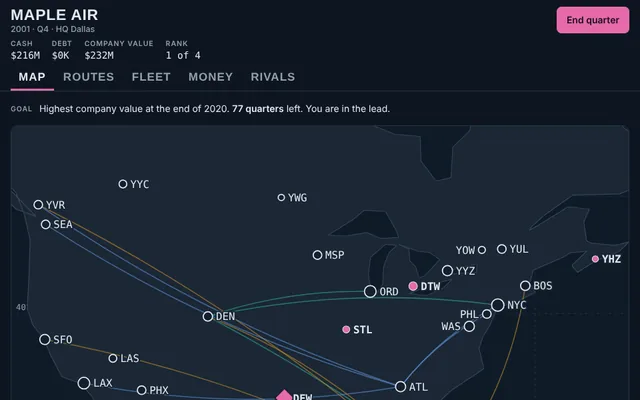
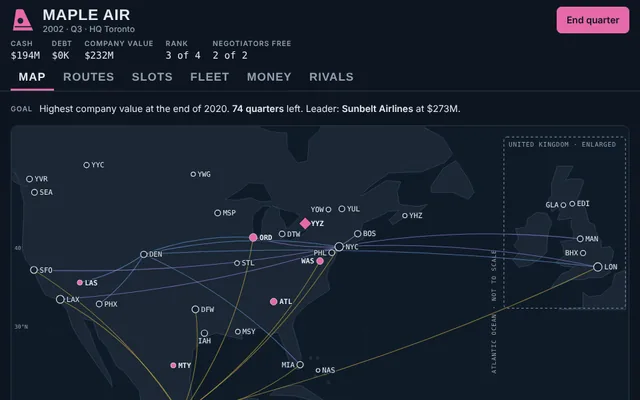
Update airline game description and screenshot
Describes the new features on the homepage and projects page, refreshes
the thumbnail to show UK routes, and keeps the preview's save name neutral.

Claude-Session: https://claude.ai/code/session_01TaZDt4NkecfTTRFoHdvYhV

diff --git a/public/projects/airline/index.html b/public/projects/airline/index.html
@@ -582,8 +582,8 @@ const code=c=>`<span class="code">${c}</span>`;
 const pairHTML=(a,b)=>`<span class="pair">${code(a)}<i>⇄</i>${code(b)}</span>`;
 const dotOf=i=>`<span class="dot" style="background:${COLORS[i]}"></span>`;
 
-function save(){try{localStorage.setItem('contrail-save-v2',JSON.stringify(G));}catch(e){}}
-function loadSave(){try{const s=localStorage.getItem('contrail-save-v2');return s?JSON.parse(s):null;}catch(e){return null;}}
+function save(){try{localStorage.setItem('airline-save-v2',JSON.stringify(G));}catch(e){}}
+function loadSave(){try{const s=localStorage.getItem('airline-save-v2');return s?JSON.parse(s):null;}catch(e){return null;}}
 
 function render(){
   applyTheme(G?G.color:UI.setupColor);
@@ -927,7 +927,7 @@ function handle(act,el){
     case 'repay':{const x=Math.min(25,me.debt);if(x>0&&me.cash>=x){me.debt-=x;me.cash-=x;save();render();}break;}
     case 'newgame1':UI.confirmNew=true;render();break;
     case 'newgame0':UI.confirmNew=false;render();break;
-    case 'newgame2':G=null;UI.confirmNew=false;try{localStorage.removeItem('contrail-save-v2');}catch(e){}$('#sheetRoot').innerHTML='';SHEET=null;render();window.scrollTo(0,0);break;
+    case 'newgame2':G=null;UI.confirmNew=false;try{localStorage.removeItem('airline-save-v2');}catch(e){}$('#sheetRoot').innerHTML='';SHEET=null;render();window.scrollTo(0,0);break;
   }
 }
 function start(data){

diff --git a/public/projects/index.html b/public/projects/index.html
@@ -41,10 +41,10 @@
       </a>
 
       <a class="project" href="/airline/">
-        <img class="shot" src="https://skizem.com/shots/airline.webp" width="640" height="400" alt="A route map of North America with rival airline networks" loading="lazy">
+        <img class="shot" src="https://skizem.com/shots/airline.webp" width="640" height="400" alt="A route map of North America and the UK with transatlantic routes" loading="lazy">
         <div class="info">
           <div class="project-top"><h3>Unnamed project</h3><span class="status">In development</span></div>
-          <p>A browser airline-management game: build a route network across North America and over the Atlantic to the UK, from 2000 to 2020, against three rival carriers.</p>
+          <p>A browser airline-management game set from 2000 to 2020: fly real aircraft across North America and the UK, bid for airport slots, build hub terminals and connecting traffic, and lease or buy your fleet against three rival carriers.</p>
           <span class="go">Play preview <span aria-hidden="true">→</span></span>
         </div>
       </a>

diff --git a/public/index.html b/public/index.html
@@ -60,13 +60,13 @@
       </a>
 
       <a class="project" href="https://projects.skizem.com/airline/">
-        <img class="shot" src="/shots/airline.webp" width="640" height="400" alt="A route map of North America with rival airline networks" loading="lazy">
+        <img class="shot" src="/shots/airline.webp" width="640" height="400" alt="A route map of North America and the UK with transatlantic routes" loading="lazy">
         <div class="info">
           <div class="project-top">
             <h3>Unnamed project</h3>
             <span class="status">In development</span>
           </div>
-          <p>A browser airline-management game: build a North American route network from 2000 to 2020 against three rival carriers.</p>
+          <p>A browser airline-management game set from 2000 to 2020: fly real aircraft across North America and the UK, bid for airport slots, build hub terminals and connecting traffic, and lease or buy your fleet against three rival carriers.</p>
           <span class="go">Play preview <span aria-hidden="true">→</span></span>
         </div>
       </a>
